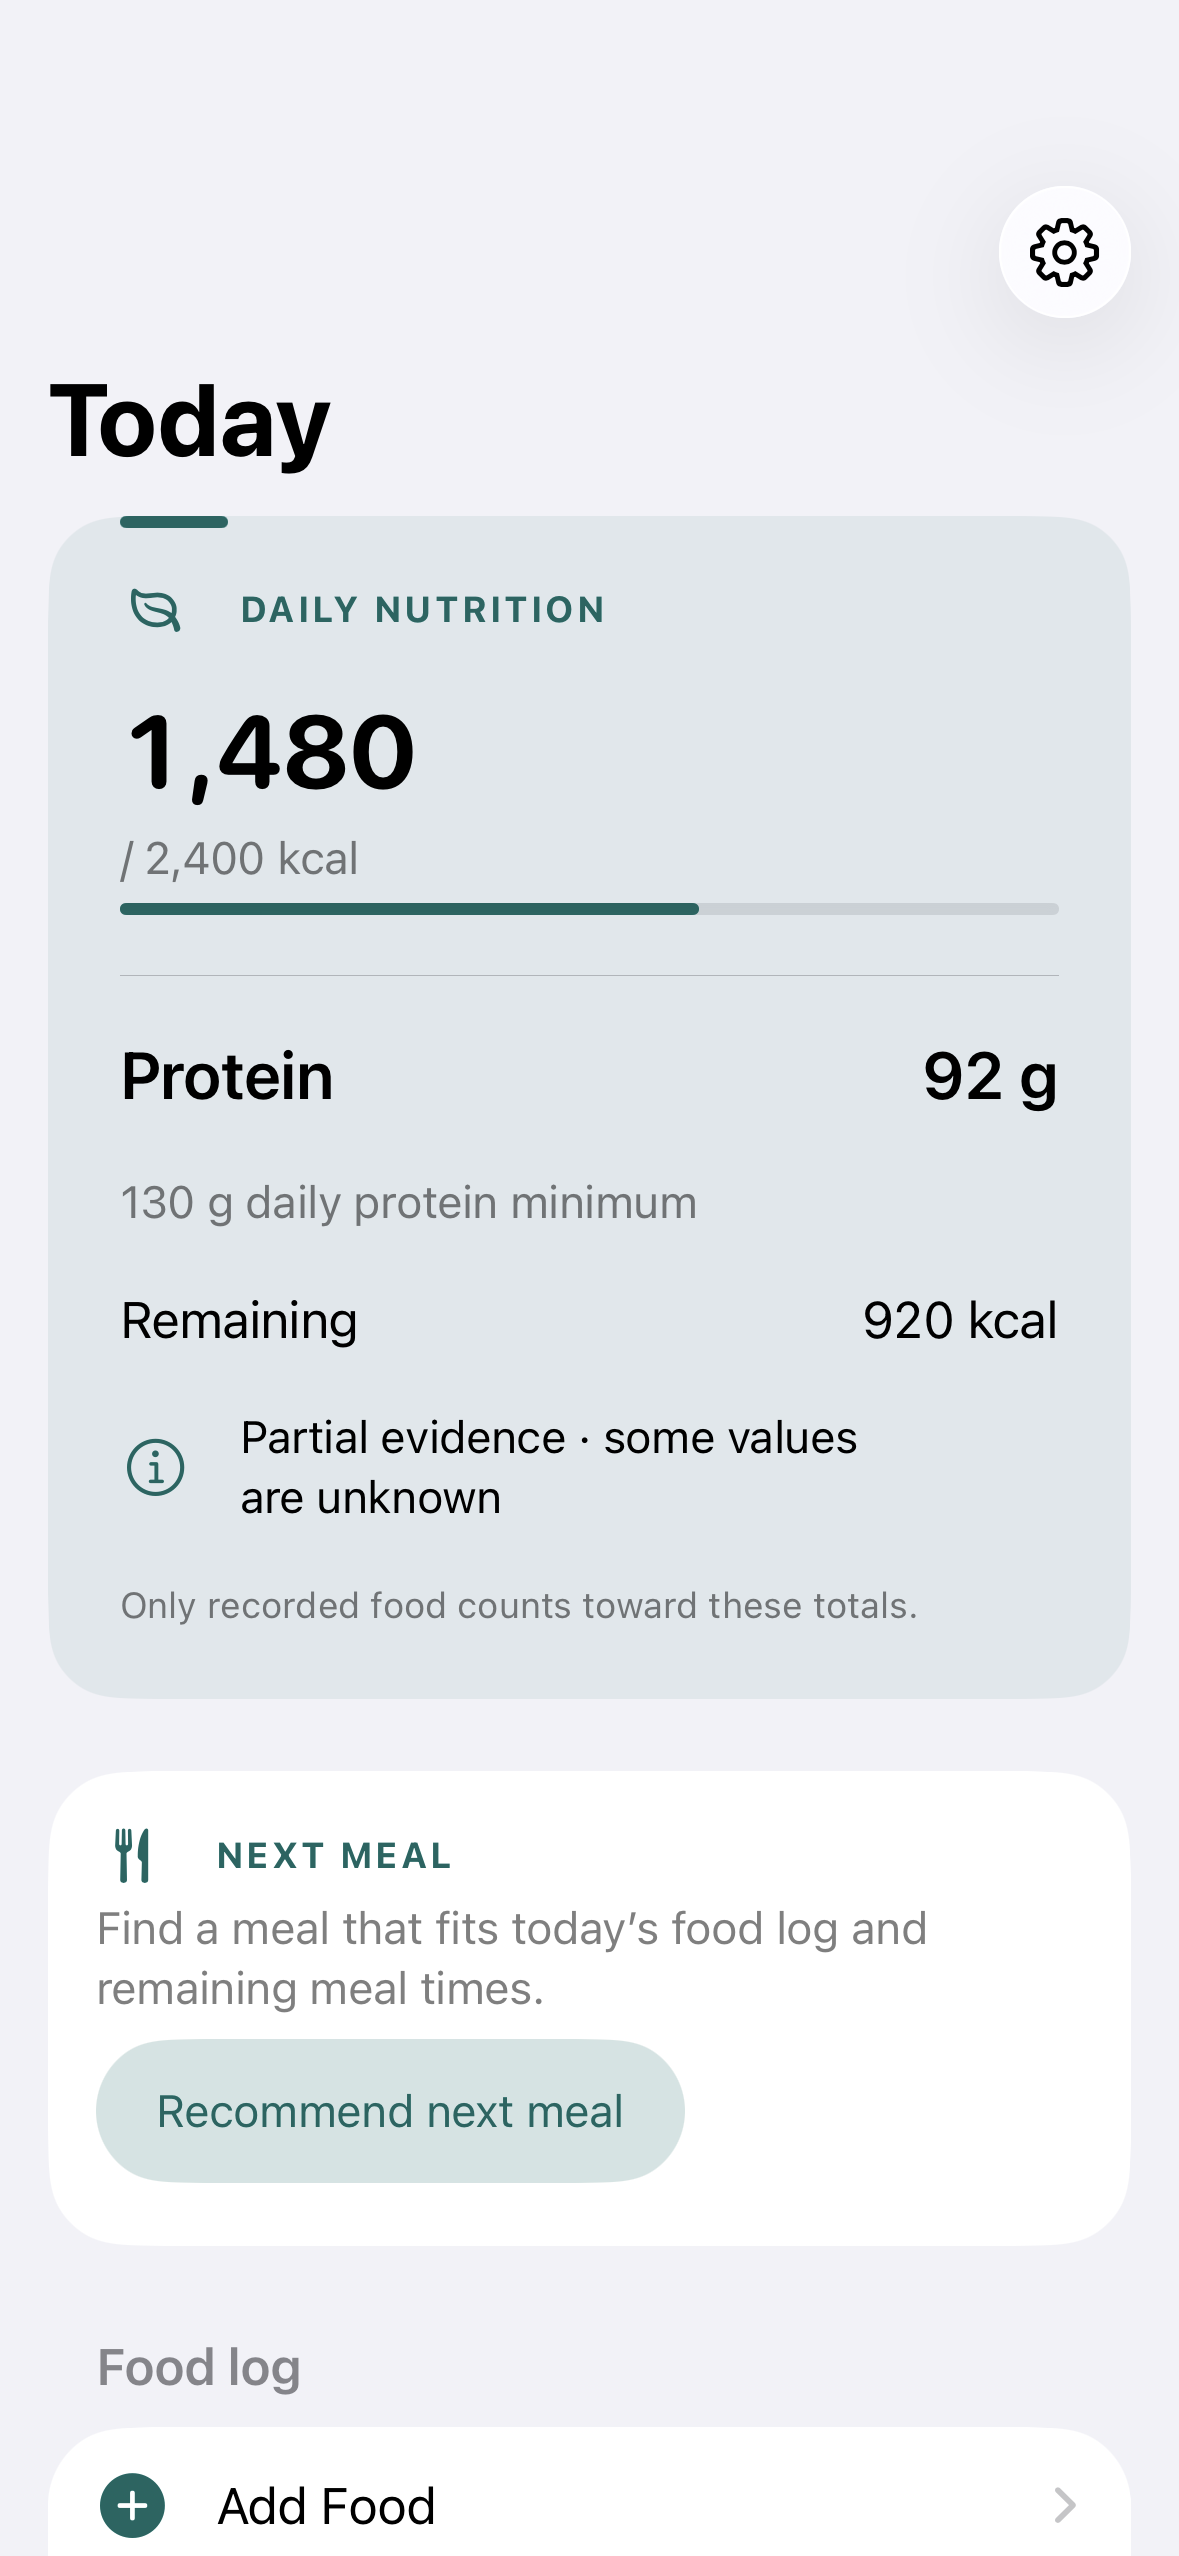
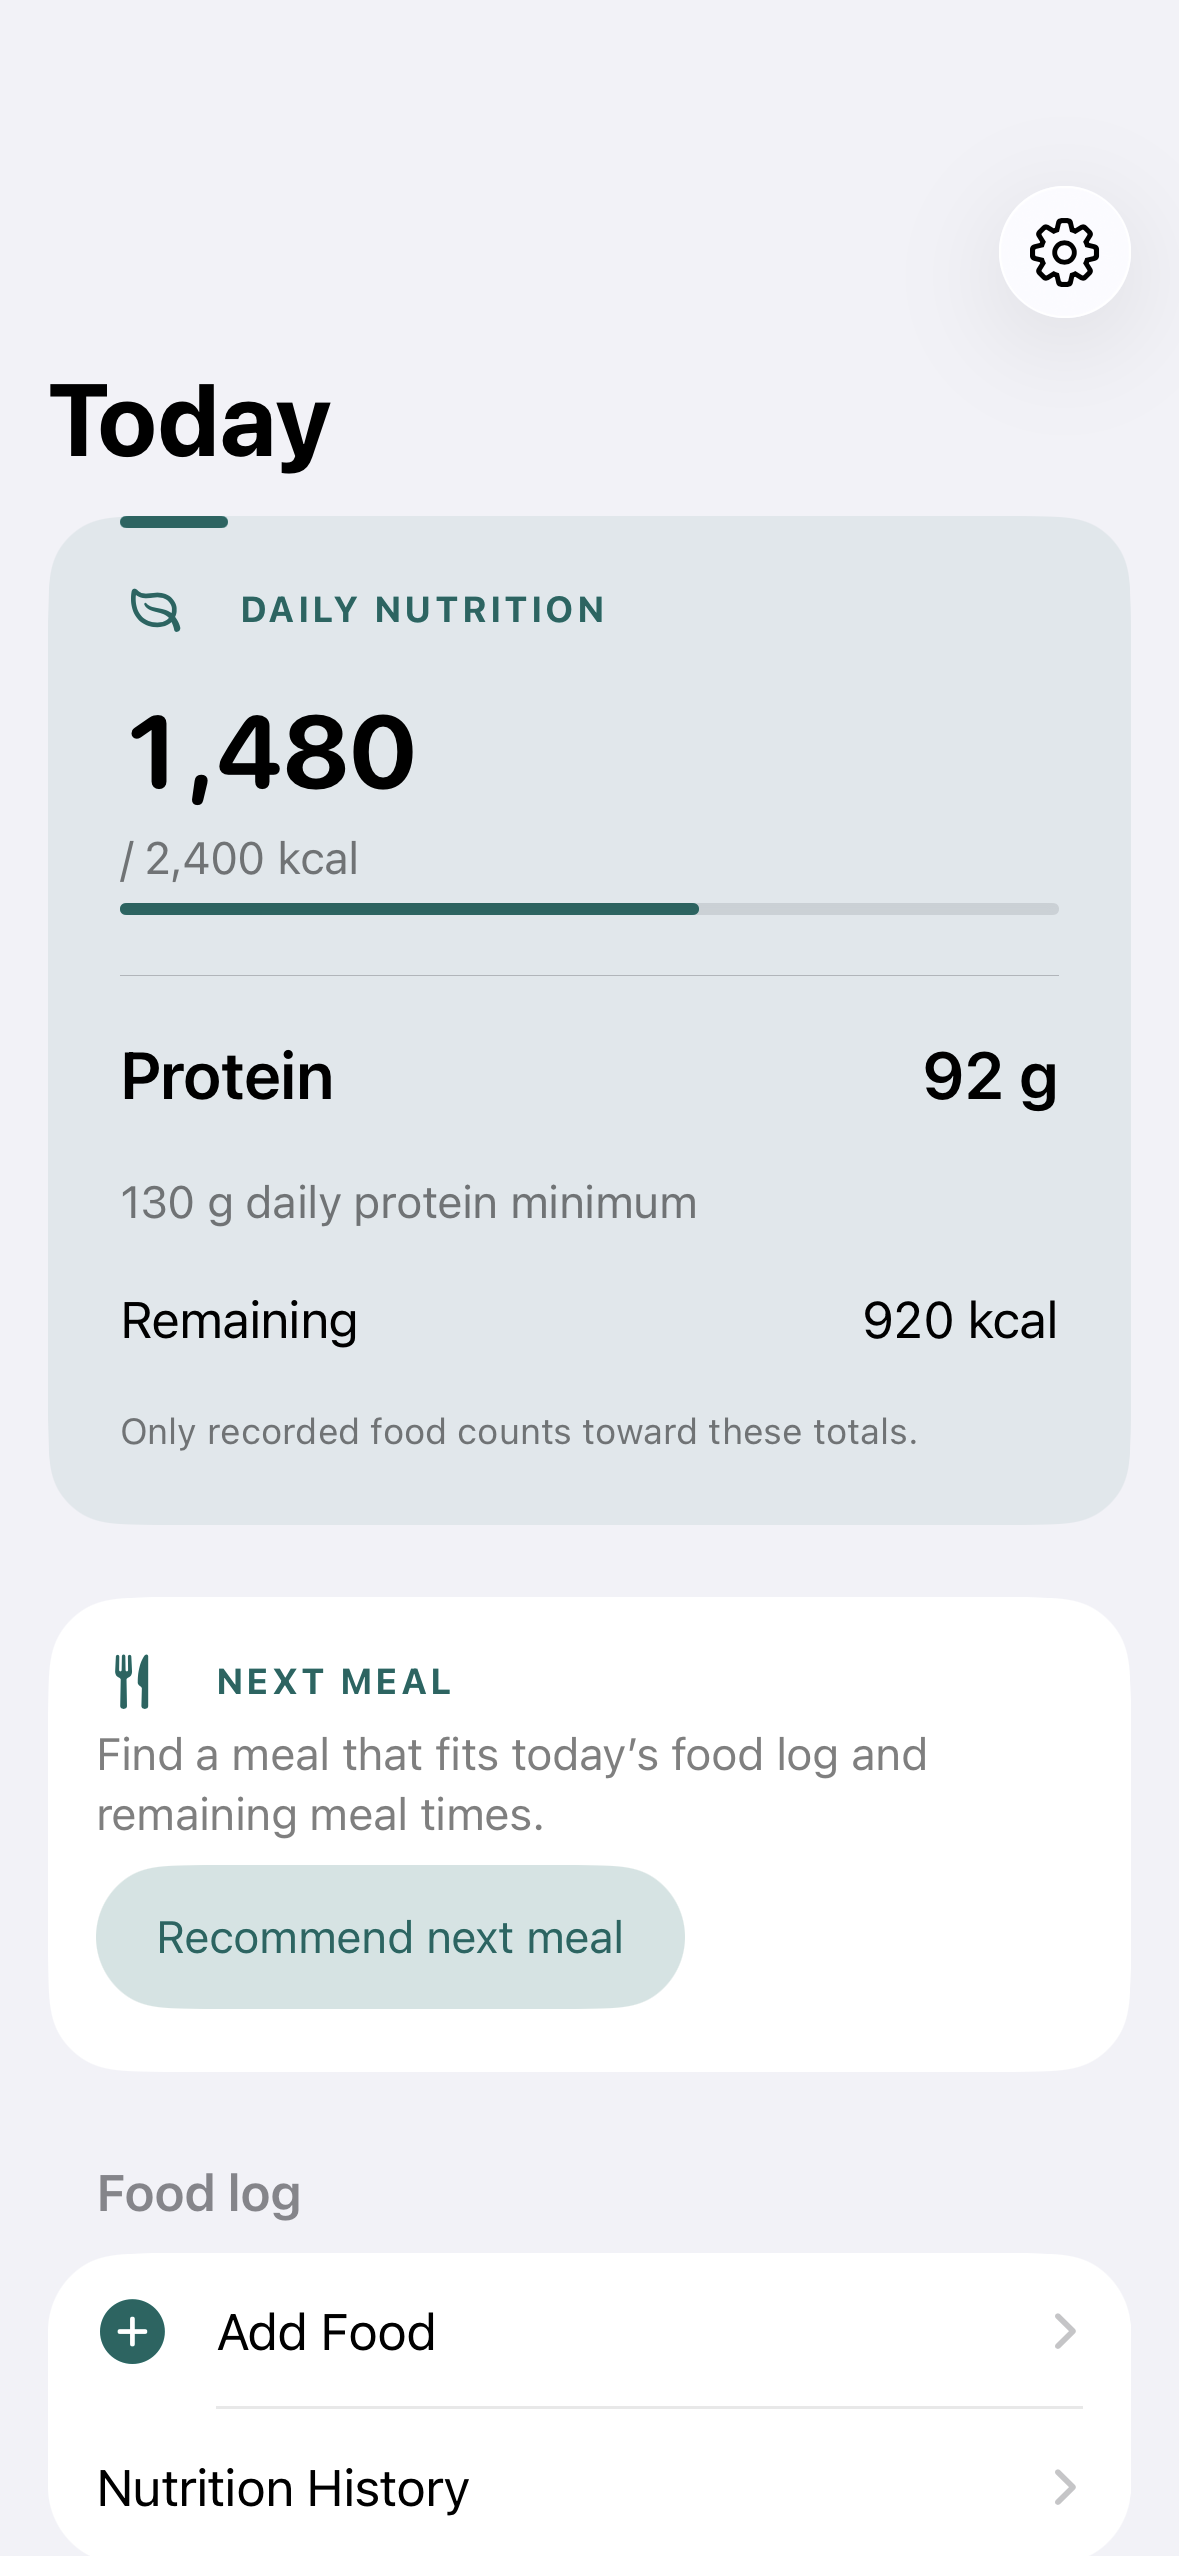
docs: refine Nytr showcase screenshots
Keep the opening focused on the Penn State dining problem: drop the AI caveat
sentence from the hero and move the university-independence disclaimer down to
Project status, where it stays visible but understated. The later Apple
Foundation Models explanation and the pipeline's optional AI stage are unchanged.

Give the render fixture enough synthetic evidence for the production
implementations to reach useful states, rather than changing any production
behaviour:

- Today: the synthetic ledger now reports complete evidence with no unknown
  nutrients, so the existing classification in NytrDesign renders a normal
  fully-populated day instead of the partial-evidence notice.
- Training Coaching: previously a single session with no comparison, so the
  deterministic engine correctly returned unavailable/insufficient_history. The
  fixture now carries two comparable Cable Row sessions, and the coaching block
  holds the exact output the production engine (owner-training-coaching.v1)
  computes for that evidence: progress / add_one_top_set_rep_same_load with an
  11-rep target at the same load. Rendering it through the real view produces
  'Keep the top-set load at 80 lb and aim for 11 reps.'

Adds Settings to the render set. Drops the screenshot-provenance sentence;
screenshots still come only from public synthetic fixtures.

diff --git a/ios/NutritionHealthCompanion/HealthSyncTests/ProductRenderingTests.swift b/ios/NutritionHealthCompanion/HealthSyncTests/ProductRenderingTests.swift
@@ -26,9 +26,9 @@
                         policyVersionId: UUID(), policyVersion: "synthetic", caloriesKcal: "2400",
                         caloriesGoalKind: "target", proteinG: "130", proteinGoalKind: "floor"), consumedItemCount: 3,
                     knownCaloriesConsumed: "1480", knownProteinGConsumed: "92", remainingKnownCalories: "920",
-                    remainingKnownProteinG: "38", nutritionCompleteness: .partial,
+                    remainingKnownProteinG: "38", nutritionCompleteness: .complete,
                     nutritionAuthorities: [.externalReference],
-                    unknownNutrients: ["fiber_g"], consumedItems: [], reasonCodes: ["nutrition_partial"])
+                    unknownNutrients: [], consumedItems: [], reasonCodes: [])
             }
             func fetchDayPlan(date: Date) async throws -> DayPlanResponse {
                 let day = WireDay.string(from: date)
@@ -85,7 +85,7 @@
             func fetchExerciseHistory(
                 sourceExerciseId: String, sourceSystem: String, asOfDate: Date, timezone: String, limit: Int
             ) async throws -> ExerciseTrainingHistoryResponse {
-                await TrainingViewModelTests.history
+                Self.coachableHistory
             }
             func fetchReviewSnapshot(asOfDate: Date, timezone: String) async throws -> OnDeviceReviewSnapshot {
                 await OnDeviceReviewSnapshot(
@@ -94,6 +94,114 @@
                         goal: "gain", weightEvidence: "stale", nutritionEvidence: "recorded_partial",
                         calorieTargetAvailable: true, proteinTargetAvailable: true, nextMeal: "unavailable",
                         includesEstimates: true, limitation: "Only recorded evidence is known."))
+            }
+
+            // Two comparable Cable Row sessions: identical top-set load with one
+            // extra top-set rep in the latest session, three working sets each,
+            // no failure sets, moderate RPE.
+            //
+            // The coaching block below is NOT authored copy. It is the exact
+            // output the production deterministic engine
+            // (`domain/training/analytics.py`, `owner-training-coaching.v1`)
+            // produces for this evidence: progress / add_one_top_set_rep_same_load
+            // with an 11-rep target at the same load. The comparison deltas and
+            // volume figures are likewise the engine's computed values.
+            private static let coachableHistory = ExerciseTrainingHistoryResponse(
+                policyVersion: "owner-training-analytics.v1",
+                sourceSystem: "hevy",
+                sourceExerciseId: "fixture-row",
+                latestDisplayName: "Cable Row",
+                history: [latestRowPoint, previousRowPoint],
+                latest: latestRowPoint,
+                previous: previousRowPoint,
+                comparison: ExerciseSessionComparisonDTO(
+                    latestRevisionId: "00000000-0000-0000-0000-000000000002",
+                    previousRevisionId: "00000000-0000-0000-0000-000000000001",
+                    workingSetCountDelta: 0,
+                    topLoadDeltaKg: "0E-14",
+                    repsAtSameTopLoadDelta: 1,
+                    volumeDeltaKgReps: "72.57486550970236",
+                    reasonCodes: []
+                ),
+                frequency: ExerciseFrequencyDTO(
+                    timezone: "America/New_York",
+                    asOfDate: "2026-09-04",
+                    sessionsLast7Days: 1,
+                    sessionsLast28Days: 2,
+                    daysSinceLastPerformance: 0
+                ),
+                prEvidence: [],
+                completeness: TrainingHistoryCompletenessDTO(
+                    sourceBootstrapComplete: true,
+                    queryComplete: true,
+                    lifetimeGuaranteed: false,
+                    wording: "PR within synced Hevy history; Hevy lifetime completeness is not guaranteed."
+                ),
+                coaching: ExerciseCoachingGuidanceDTO(
+                    policyVersion: "owner-training-coaching.v1",
+                    analyticsPolicyVersion: "owner-training-analytics.v1",
+                    timezone: "America/New_York",
+                    asOfDate: "2026-09-04",
+                    status: "progress",
+                    action: "add_one_top_set_rep_same_load",
+                    metricFamily: "rep_load",
+                    latestRevisionId: "00000000-0000-0000-0000-000000000002",
+                    previousRevisionId: "00000000-0000-0000-0000-000000000001",
+                    latestStartedAt: latestRowStartedAt,
+                    previousStartedAt: previousRowStartedAt,
+                    target: TrainingCoachingTargetDTO(
+                        workingSetCount: 3,
+                        topLoadKg: "36.28743275485118",
+                        topSetReps: 11,
+                        totalReps: nil,
+                        keepAssistanceConstant: false
+                    ),
+                    reasonCodes: ["comparable_performance_supports_rep_progression"],
+                    limitations: [
+                        "advisory_only",
+                        "no_form_recovery_or_pain_evidence",
+                        "no_program_rep_range_or_equipment_increment",
+                        "within_synced_hevy_history_not_lifetime",
+                    ]
+                )
+            )
+
+            private static let previousRowStartedAt = Date(timeIntervalSince1970: 1_788_357_600)
+            private static let latestRowStartedAt = Date(timeIntervalSince1970: 1_788_962_400)
+
+            private static let previousRowPoint = rowPoint(
+                revision: 1, session: 1, title: "Pull 1", startedAt: previousRowStartedAt,
+                topReps: 9, repTotal: 26, volume: "943.47325162613068")
+            private static let latestRowPoint = rowPoint(
+                revision: 2, session: 2, title: "Pull 2", startedAt: latestRowStartedAt,
+                topReps: 10, repTotal: 28, volume: "1016.04811713583304")
+
+            private static func rowPoint(
+                revision: Int, session: Int, title: String, startedAt: Date,
+                topReps: Int, repTotal: Int, volume: String
+            ) -> ExerciseHistoryPointDTO {
+                ExerciseHistoryPointDTO(
+                    revisionId: "00000000-0000-0000-0000-00000000000\(revision)",
+                    sourceSessionId: "session-\(session)",
+                    sourceRevision: "revision-\(session)",
+                    sessionTitle: title,
+                    startedAt: startedAt,
+                    displayName: "Cable Row",
+                    occurrenceCount: 1,
+                    metricFamily: "rep_load",
+                    recordedSetCount: 3,
+                    workingSetCount: 3,
+                    warmupSetCount: 0,
+                    unsupportedSetCount: 0,
+                    repTotal: repTotal,
+                    maxLoadKg: "36.28743275485118",
+                    topLoadSet: TopLoadSetEvidenceDTO(
+                        setIdentity: "set:0", setIndex: 0, setType: "normal",
+                        reps: topReps, loadKg: "36.28743275485118", rpe: "8"),
+                    volumeKgReps: volume,
+                    maxRpe: "8",
+                    metricCompleteness: "complete"
+                )
             }
 
             private static func slot(

diff --git a/README.md b/README.md
@@ -12,9 +12,6 @@ integrates institutional dining data from Stacks Market with HealthKit, food log
 barcode products, training history, body-goal evidence, and deterministic nutrition
 logic to generate daily guidance.
 
-Optional on-device Apple Intelligence can explain the results, but it never determines
-the underlying facts or calculations.
-
 ```text
         INSTITUTIONAL DINING DATA
                     +
@@ -29,10 +26,6 @@ the underlying facts or calculations.
                     v
      OPTIONAL ON-DEVICE AI EXPLANATION
 ```
-
-> [!NOTE]
-> Nytr is an independent student project and is not affiliated with or endorsed by
-> The Pennsylvania State University.
 
 ---
 
@@ -68,10 +61,6 @@ in the UI.
 ---
 
 ## Screenshots
-
-Rendered from synthetic fixtures by the repository's own
-[`ProductRenderingTests`](ios/NutritionHealthCompanion/HealthSyncTests/ProductRenderingTests.swift).
-No personal health data appears in any image.
 
 ### Dark mode
 
@@ -389,6 +378,9 @@ Store release exists today.
 
 Production-validated personal project; this public repository contains a sanitized,
 reproducible version of the codebase.
+
+Nytr is an independent student project and is not affiliated with or endorsed by The
+Pennsylvania State University.
 
 Further reading: [architecture notes](docs/ARCHITECTURE.md) ·
 [nutrition engine](docs/NUTRITION_ENGINE.md) ·
